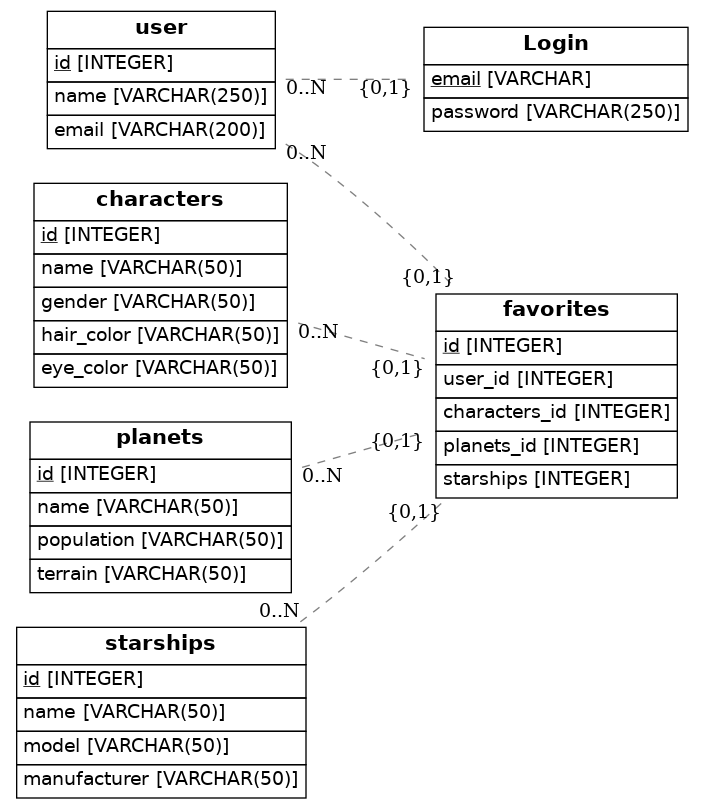
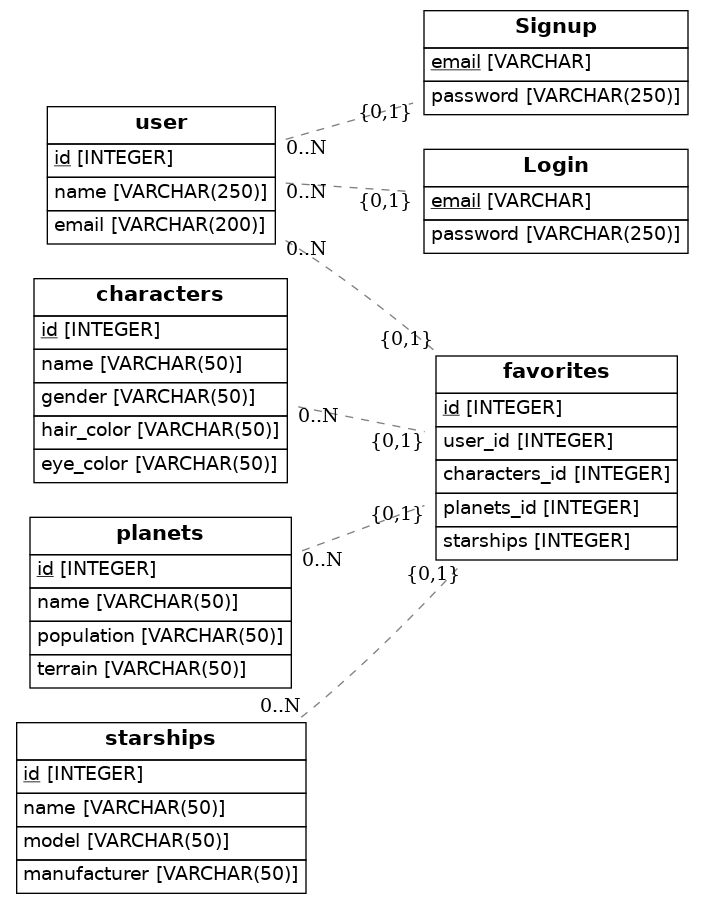
modifications

diff --git a/src/models3.py b/src/models3.py
@@ -1,0 +1,98 @@
+
+import os
+import sys
+from sqlalchemy import  Table, Column, ForeignKey, Integer, String, Date
+from sqlalchemy.ext.declarative import declarative_base
+from sqlalchemy.orm import relationship
+from sqlalchemy import create_engine
+from eralchemy import render_er
+
+Base = declarative_base()
+
+
+class User(Base):
+    __tablename__ = 'user'
+    id = Column(Integer, primary_key=True)
+    name = Column(String(50), nullable=False)
+    email = Column(String(50), nullable=False)
+    password = Column(String(50), nullable=False)
+
+class User_Favorites(Base):
+    __tablename__ = 'user_favorites'
+    id = Column(Integer, primary_key=True)
+    user_id = Column(Integer, ForeignKey('user.id'))
+    character = Column(Integer, ForeignKey('character.id'))
+    planet = Column(Integer, ForeignKey('planet.id'))
+    starship = Column(Integer, ForeignKey('starship.id'))
+    vehicles = Column(Integer, ForeignKey('vehicles.id'))
+
+
+class Starship(Base):
+    __tablename__ = 'starship'
+    id = Column(Integer, primary_key=True)
+    name = Column(String(50), nullable=False)
+    model = Column(String(50))
+    manufacturer = Column(String(50))
+    cost_in_credits = Column(Integer)
+    length = Column(Integer)
+    max_atmosphering_speed = Column(Integer)
+    cargo_capacity = Column(Integer)
+
+    user_favorites = relationship('user_favorites')
+
+class Planet(Base):
+    __tablename__ = 'planet'
+    id = Column(Integer, primary_key=True)
+    name = Column(String(50), nullable=False)
+    rotation_period = Column(Integer)
+    orbital_period = Column(Integer)
+    diameter = Column(Integer)
+    climate = Column(String(50))
+    gravity = Column(Integer)
+    terrain = Column(String(50))
+    population = Column(Integer)
+
+    user_favorites = relationship('user_favorites')
+
+class Character(Base):
+    __tablename__ = 'character'
+    id = Column(Integer, primary_key=True)
+    name = Column(String(50), nullable=False)
+    height = Column(String(20))
+    mass = Column(Integer)
+    hair_color = Column(String(50))
+    skin_color = Column(String(50))
+    eye_color = Column(String(50))
+    birth_year = Column(Date)
+    gender = Column(String(25))
+    species = Column(String(50), ForeignKey('species.name'))
+    
+    user_favorites = relationship('user_favorites')
+
+class Vehicles(Base):
+    __tablename__ = 'vehicles'
+    id = Column(Integer, primary_key=True)
+    name = Column(String(120), nullable=False)
+    model = Column(String(120))
+    cost_in_credits = Column(Integer)
+    vehicle_class = Column(String(20))
+
+    user_favorites = relationship('user_favorites')
+
+class Species(Base):
+    __tablename__ = 'species'
+    id = Column(Integer, primary_key=True)
+    name = Column(String(120), nullable=False)
+    designation = Column(String(20))
+    classification = Column(String(20))
+    average_height = Column(Integer)
+    average_lifespan = Column(Integer)
+    homeworld = Column(String(20, ForeignKey('planet.name')))
+
+    user_favorites = relationship('user_favorites')
+
+    def to_dict(self):
+        return {}
+
+## Draw from SQLAlchemy base
+render_er(Base, 'diagram3.png')

diff --git a/src/models2.py b/src/models2.py
@@ -1,0 +1,77 @@
+import os
+import sys
+from sqlalchemy import  Table, Column, ForeignKey, Integer, String, Date
+from sqlalchemy.ext.declarative import declarative_base
+from sqlalchemy.orm import relationship
+from sqlalchemy import create_engine
+from eralchemy import render_er
+
+Base = declarative_base()
+
+
+class User(Base):
+    __tablename__ = 'user'
+    id = Column(Integer, primary_key=True)
+    name = Column(String(250), nullable=False)
+    email = Column(String(250), nullable=False)
+    password = Column(String(250), nullable=False)
+
+class User_Favorites(Base):
+    __tablename__ = 'user_favorites'
+    id = Column(Integer, primary_key=True)
+    user_id = Column(Integer, ForeignKey('user.id'))
+    character = Column(Integer, ForeignKey('character.id'))
+    planet = Column(Integer, ForeignKey('planet.id'))
+    starship = Column(Integer, ForeignKey('starship.id'))
+
+
+class Starship(Base):
+    __tablename__ = 'starship'
+    id = Column(Integer, primary_key=True)
+    name = Column(String(250))
+    model = Column(String(250))
+    manufacturer = Column(String(250))
+    cost_in_credits = Column(Integer)
+    length = Column(Integer)
+    max_atmosphering_speed = Column(Integer)
+    cargo_capacity = Column(Integer)
+
+    user_favorites_id = Column(Integer, ForeignKey('user_favorites.id'))
+    user_favorites = relationship('user_favorites')
+
+class Planet(Base):
+    __tablename__ = 'planet'
+    id = Column(Integer, primary_key=True)
+    name = Column(String(250))
+    rotation_period = Column(Integer)
+    orbital_period = Column(Integer)
+    diameter = Column(Integer)
+    climate = Column(String(250))
+    gravity = Column(Integer)
+    terrain = Column(String(250))
+    population = Column(Integer)
+
+    user_favorites_id = Column(Integer, ForeignKey('user_favorites.id'))
+    user_favorites = relationship('user_favorites')
+
+class Character(Base):
+    __tablename__ = 'character'
+    id = Column(Integer, primary_key=True)
+    name = Column(String(250))
+    height = Column(String(20))
+    mass = Column(Integer)
+    hair_color = Column(String(250))
+    skin_color = Column(String(250))
+    eye_color = Column(String(250))
+    birth_year = Column(Date)
+    gender = Column(String(25))
+    species = Column(String(250))
+    
+    user_favorites_id = Column(Integer, ForeignKey('user_favorites.id'))
+    user_favorites = relationship('user_favorites')
+
+    def to_dict(self):
+        return {}
+
+## Draw from SQLAlchemy base
+render_er(Base, 'diagram2.png')

diff --git a/src/models4.py b/src/models4.py
@@ -1,0 +1,53 @@
+import os
+import sys
+from sqlalchemy import Column, ForeignKey, Integer, String
+from sqlalchemy.ext.declarative import declarative_base
+from sqlalchemy.orm import relationship
+from sqlalchemy import create_engine
+from eralchemy import render_er
+
+Base = declarative_base()
+
+class User(Base):
+    __tablename__ = 'user'
+    id = Column(Integer, primary_key=True)
+    username = Column(String(50), nullable=False)
+    firstname = Column(String(50),nullable=False)
+    lastname = Column(String(50),nullable=False)
+    email = Column(String(50),nullable=False)
+    password = Column(String(50), nullable=False)
+    favorite = relationship('Favorites')
+
+
+class Favorites(Base):
+    __tablename__ = 'favorites'
+    id = Column(Integer, primary_key=True)
+    user_id = Column(Integer, ForeignKey('user.id'))
+    user = relationship('User')
+    character = relationship('Characters')
+    planet = relationship('Planets')
+    
+
+class Characters(Base):
+    __tablename__= 'characters'
+    id = Column(Integer, primary_key=True)
+    name = Column(String(50))
+    gender = Column(String(50))
+    hair_color = Column(String(50))
+    eye_color = Column(String(50))
+    favorite_id = Column(Integer, ForeignKey('favorites.id'))
+
+
+class Planets(Base):
+    __tablename__= 'planets'
+    id = Column(Integer, primary_key=True)
+    name = Column(String(50))
+    population = Column(String(50))
+    terrain = Column(String(50))
+    favorite_id = Column(Integer, ForeignKey('favorites.id'))
+    
+    def to_dict(self):
+        return {}
+
+## Draw from SQLAlchemy base
+render_er(Base, 'diagram4.png')

diff --git a/src/models.py b/src/models.py
@@ -16,12 +16,19 @@ class User(Base):
     name = Column(String(250), nullable=False)
     email = Column(String(200), nullable=False)
 
+class Signup(Base):
+    __tablename__ = 'Signup'
+
+    email = Column(String, ForeignKey('user.email'), primary_key=True)
+    password = Column(String(250))
+    Signup = relationship(User)
+
 class LogIn(Base):
     __tablename__ = 'Login'
 
     email = Column(String, ForeignKey('user.email'), primary_key=True)
     password = Column(String(250))
-    LogIn = relationship(User)
+    LogIn = relationship(Signup)
 
 
 class Favorites(Base):
